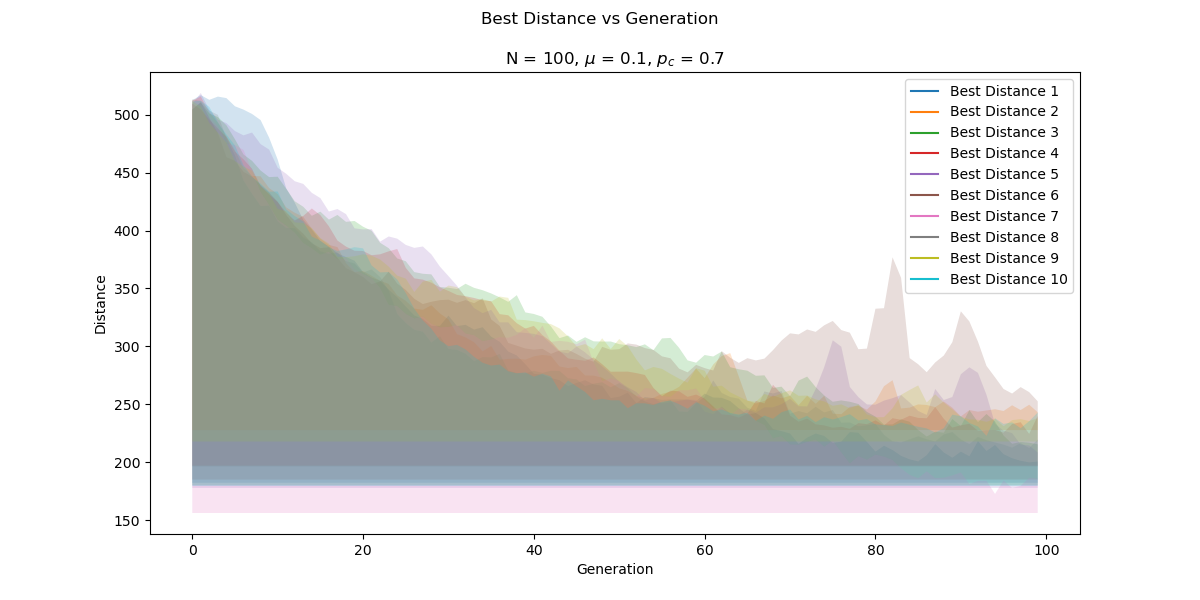
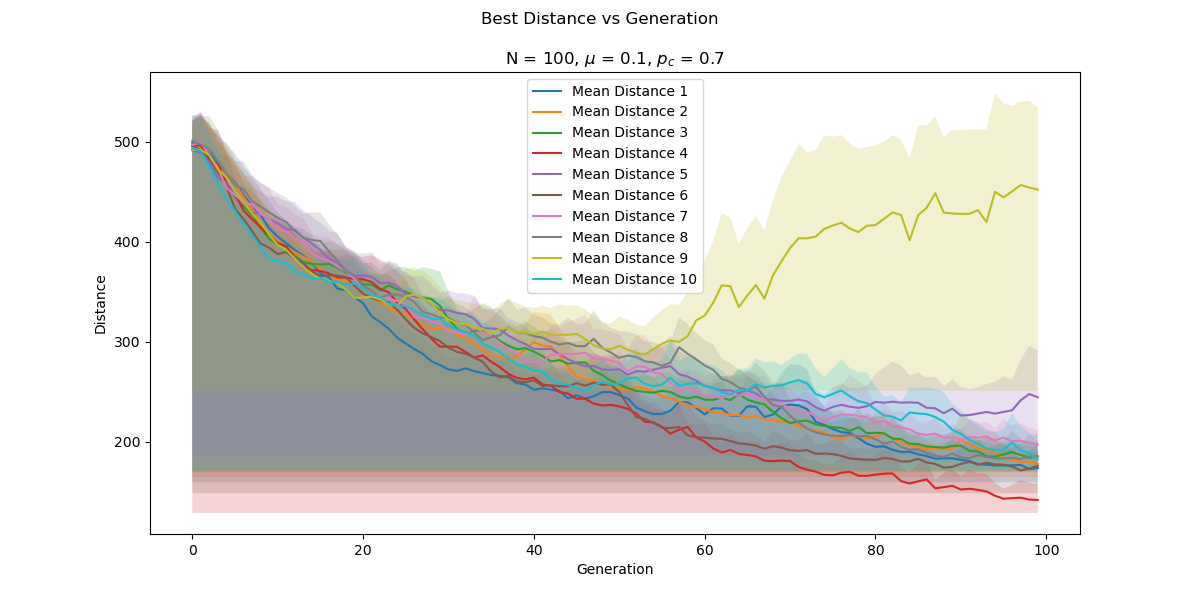
included dist matrix function

diff --git a/ass4/b2/EA.py b/ass4/b2/EA.py
@@ -14,9 +14,9 @@ import json
 class EA:
 
 
-    def __init__(self, cities, permutations, population_size=100, mutation_rate=0.01, crossover_rate=0.7, tournament_size=2, elitism = 10, generations=1000, horizon=15):
-        self.cities = cities # list of coordinates of cities [N x 2]
-        self.n = len(cities)
+    def __init__(self, distance_matrix, population_size=100, mutation_rate=0.01, crossover_rate=0.7, tournament_size=2, elitism = 10, generations=1000, horizon=15):
+        self.n = distance_matrix.shape[0] # number of cities
+        self.distance_matrix = distance_matrix
         self.population_size = population_size
         self.mutation_rate = mutation_rate
         self.crossover_rate = crossover_rate
@@ -24,10 +24,7 @@ class EA:
         self.elitism = elitism
         self.max_generations = generations
         self.conv_horiz = horizon # number of generations to check for convergence
-        if permutations is None:
-            self.population = self.create_population2()
-        else:
-            self.population = self.create_population(permutations) # list of tuples (route, distance)
+        self.population = self.create_population() # list of tuples (route, distance)
         self.best_route = None
         self.best_distance = float('inf')
         self.best_distances = [] # to track best distance
@@ -36,16 +33,8 @@ class EA:
         self.generation = 0  
         print("Initiated")
 
-    def create_population(self, permutations):
-        population = []
-        # sample random indices from permutations
-        routes = random.sample(list(permutations), self.population_size)
-        for route in routes:
-            distance = self.calculate_distance(route)
-            population.append((route, distance))
-        return population
-    
-    def create_population2(self):
+    def create_population(self):
+        # create a random population of routes
         population = []
         for _ in range(self.population_size):
             # create a random route
@@ -54,14 +43,23 @@ class EA:
             population.append((route, distance))
         return population
     
+
+    # def calculate_distance(self, route):
+    #     distance = 0
+    #     for i in range(len(route)-1):
+    #         city1 = self.cities[route[i]]
+    #         city2 = self.cities[route[i+1]]
+    #         distance += np.linalg.norm(np.array(city1) - np.array(city2))
+    #     return distance
+    
     def calculate_distance(self, route):
+        # calculate the distance of the route using the distance matrix
         distance = 0
         for i in range(len(route)-1):
-            city1 = self.cities[route[i]]
-            city2 = self.cities[route[i+1]]
-            distance += np.linalg.norm(np.array(city1) - np.array(city2))
+            distance += self.distance_matrix[route[i], route[i+1]]
+        # add the distance from the last city to the first city
+        distance += self.distance_matrix[route[-1], route[0]]
         return distance
-    
 
     def crossover(self, parent1, parent2):
         # order crossover
@@ -194,10 +192,10 @@ def plot_results(final_dists, best_distances, mean_distances, var_distances, alg
     
         
         # plot the mean distance
-        plt.plot(mean_distances[i], label=f"Mean Distance {i+1}")
-        # plt.plot(best_distances[i], label=f"Best Distance {i+1}")
+        # plt.plot(mean_distances[i], label=f"Mean Distance {i+1}")
+        plt.plot(best_distances[i], label=f"Best Distance {i+1}")
         # plot the variance distance as shaded area
-        plt.fill_between(range(len(var_distances[i])), best_distances[i], std_upper, alpha=0.2)
+        plt.fill_between(range(len(var_distances[i])),mean_distances[i], std_upper, alpha=0.2)
        
      # configure runs plot   
     plt.xlabel("Generation")
@@ -212,6 +210,8 @@ def plot_results(final_dists, best_distances, mean_distances, var_distances, alg
     plt.savefig(fig_name)
     plt.show()
 
+
+    
 
 def setup():
     dataset = sys.argv[1]
@@ -233,13 +233,24 @@ def setup():
     file_loc = f"/datasets/{dataset}.txt"
     file_path = os.path.dirname(__file__) + file_loc
     cities = read_dataset(file_path)
-    
-    return cities, population_size, mutation_rate, crossover_rate, generations, n_runs
+
+    def distance_matrix(cities):
+        n = len(cities)
+        matrix = np.zeros((n, n))
+        for i in range(n):
+            for j in range(i + 1, n):
+                dist = np.linalg.norm(np.array(cities[i]) - np.array(cities[j]))
+                matrix[i, j] = matrix[j, i] = dist
+        return matrix
+
+
+    distance_matrix = distance_matrix(cities)
+    return distance_matrix, population_size, mutation_rate, crossover_rate, generations, n_runs
 
 if __name__ == "__main__":
     
     # setup
-    cities, population_size, mutation_rate, crossover_rate, generations, n_runs = setup()
+    distance_matrix, population_size, mutation_rate, crossover_rate, generations, n_runs = setup()
     
     
     # create a list of permutations of the cities
@@ -255,7 +266,7 @@ if __name__ == "__main__":
         print(f"Starting Run {i+1} of 10")
         time_init = time.time()
         # initiate the algorithm
-        ea = EA(cities, perms, population_size, mutation_rate, crossover_rate, generations=generations)
+        ea = EA(distance_matrix, population_size, mutation_rate, crossover_rate, generations=generations)
         
         # run the search, get the best route and distance
         best_route, best_distance = ea.do_an_evolution()

diff --git a/ass4/b2/MA.py b/ass4/b2/MA.py
@@ -9,8 +9,8 @@ class MA(EA):
     This class implements the MA (Memetic Algorithm) algorithm.
     """
 
-    def __init__(self, cities, permutations, population_size=100, mutation_rate=0.01, crossover_rate=0.7, tournament_size=2, elitism = 10, generations=100, horizon=15):
-        super().__init__(cities, permutations, population_size, mutation_rate, crossover_rate, tournament_size, elitism, generations)
+    def __init__(self, distance_matrix, population_size=100, mutation_rate=0.01, crossover_rate=0.7, tournament_size=2, elitism = 10, generations=100, horizon=15):
+        super().__init__(distance_matrix, population_size, mutation_rate, crossover_rate, tournament_size, elitism, generations)
 
     # def local_search(self):
         """
@@ -48,11 +48,13 @@ class MA(EA):
         # delta_dist = dist2 - dist1
 
 
-        def dist(city1, city2):
-            return np.linalg.norm(np.array(city1) - np.array(city2))
+        # def dist(city1, city2):
+        #     return np.linalg.norm(np.array(city1) - np.array(city2))
 
-        dist1 = dist(self.cities[route[i]], self.cities[route[i-1]]) + dist(self.cities[route[j%len(route)]], self.cities[route[j-1]])
-        dist2 = dist(self.cities[route[i-1]], self.cities[route[j-1]]) + dist(self.cities[route[i]], self.cities[route[j%len(route)]])
+        # dist1 = dist(self.cities[route[i]], self.cities[route[i-1]]) + dist(self.cities[route[j%len(route)]], self.cities[route[j-1]])
+        # dist2 = dist(self.cities[route[i-1]], self.cities[route[j-1]]) + dist(self.cities[route[i]], self.cities[route[j%len(route)]])
+        dist1 = self.distance_matrix[route[i], route[i-1]] + self.distance_matrix[route[j%len(route)], route[j-1]]
+        dist2 = self.distance_matrix[route[i-1], route[j-1]] + self.distance_matrix[route[i], route[j%len(route)]]
         delta_dist = dist2 - dist1
   
         return delta_dist
@@ -99,7 +101,7 @@ class MA(EA):
             self.generation += 1
             if self.generation % 10 == 0:
                 print(f"Generation {self.generation}: Best Distance: {self.best_distance}")
-            if np.mean(self.best_distances) == self.best_distance:
+            if self.generation > 50 and np.mean(self.best_distances) == self.best_distance:
                 print(f"Stopping criteria met at generation {self.generation}")
                 break
 
@@ -107,15 +109,14 @@ class MA(EA):
 
 
 if __name__ == "__main__":
-    cities, population_size, mutation_rate, crossover_rate, generations, n_runs = setup()
-    permutations = None
+    distance_matrix, population_size, mutation_rate, crossover_rate, generations, n_runs = setup()
 
     final_distances, best_distances, mean_distances, var_distances, cpu_times = [], [], [], [], []
 
     for i in range(n_runs):
         print(f"Starting Run {i+1}...")
         time_init = time.time()
-        ma = MA(cities, permutations, population_size, mutation_rate, crossover_rate, generations=generations)
+        ma = MA(distance_matrix, population_size, mutation_rate, crossover_rate, generations=generations)
         best_route, best_distance = ma.do_a_memetic()
         
         time_end = time.time()  
@@ -130,4 +131,4 @@ if __name__ == "__main__":
         print(f"Best Distance Run {i+1}: {best_distance}")
 
 
-    plot_results(final_distances, best_distances, mean_distances, var_distances)
+    plot_results(final_distances, best_distances, mean_distances, var_distances, algo_type="MA")
